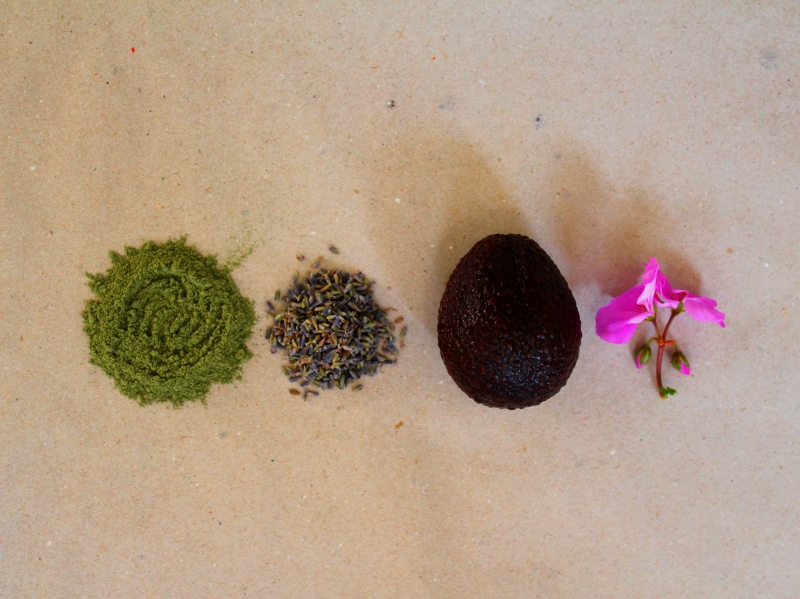
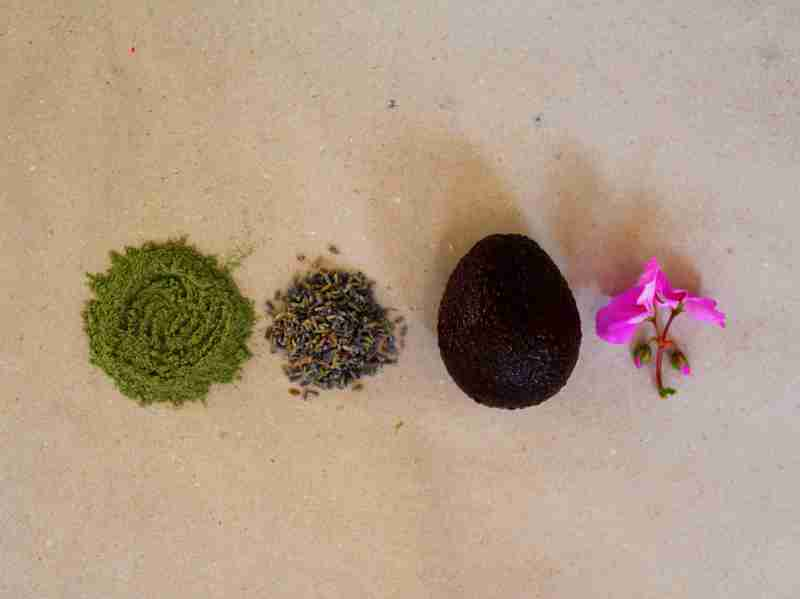
new images and new index

diff --git a/index.html b/index.html
@@ -401,7 +401,7 @@ My categories are:
         </div>
     <span class='feature_holder'> 
     </span></span></span></span></div></article> 
-<article class='mix textile '><div class='image_holder'><span class='image'><img width="800" height="600" src="wp-content/uploads/2015/04/heart_happiness.png" class="attachment-portfolio-landscape wp-post-image" alt="portfolio" /></span><span class='text_holder'><span class='text_outer'><span class='text_inner'><div class="hover_feature_holder_title"><div class="hover_feature_holder_title_inner"><h4 class="portfolio_title">
+<article class='mix textile '><div class='image_holder'><span class='image'><img width="800" height="600" src="wp-content/uploads/2015/04/heart_happiness.jpg" class="attachment-portfolio-landscape wp-post-image" alt="portfolio" /></span><span class='text_holder'><span class='text_outer'><span class='text_inner'><div class="hover_feature_holder_title"><div class="hover_feature_holder_title_inner"><h4 class="portfolio_title">
     <font color="white"> Hi! </font> 
     </h4>
         </div>
@@ -424,7 +424,7 @@ My categories are:
     <span class='feature_holder'> 
     </span></span></span></span></div></article> -->                    
             
-<article class='mix textile '><div class='image_holder'><span class='image'><img width="800" height="600" src="wp-content/uploads/2015/04/fabric.png" class="attachment-portfolio-landscape wp-post-image" alt="portfolio" /></span><span class='text_holder'><span class='text_outer'><span class='text_inner'><div class="hover_feature_holder_title"><div class="hover_feature_holder_title_inner"><h4 class="portfolio_title">
+<article class='mix textile '><div class='image_holder'><span class='image'><img width="800" height="600" src="wp-content/uploads/2015/04/fabric.jpg" class="attachment-portfolio-landscape wp-post-image" alt="portfolio" /></span><span class='text_holder'><span class='text_outer'><span class='text_inner'><div class="hover_feature_holder_title"><div class="hover_feature_holder_title_inner"><h4 class="portfolio_title">
     <font color="white"> Flower dye: Hötorget flower market </font> 
     </h4>
         </div>
@@ -446,35 +446,35 @@ My categories are:
     <span class='feature_holder'> 
     </span></span></span></span></div></article> -->
                                            
-<article class='mix textile '><div class='image_holder'><span class='image'><img width="800" height="600" src="wp-content/uploads/2015/04/concrete_manos.png" class="attachment-portfolio-landscape wp-post-image" alt="portfolio" /></span><span class='text_holder'><span class='text_outer'><span class='text_inner'><div class="hover_feature_holder_title"><div class="hover_feature_holder_title_inner"><h4 class="portfolio_title">
+<article class='mix textile '><div class='image_holder'><span class='image'><img width="800" height="600" src="wp-content/uploads/2015/04/concrete_manos.jpg" class="attachment-portfolio-landscape wp-post-image" alt="portfolio" /></span><span class='text_holder'><span class='text_outer'><span class='text_inner'><div class="hover_feature_holder_title"><div class="hover_feature_holder_title_inner"><h4 class="portfolio_title">
     <font color="white"> at manos shop </font> 
     </h4>
         </div>
         </div>
     <span class='feature_holder'> 
     </span></span></span></span></div></article>   
-<article class='mix textile press '><div class='image_holder'><span class='image'><img width="800" height="600" src="wp-content/uploads/2015/04/elle.png" class="attachment-portfolio-landscape wp-post-image" alt="portfolio" /></span><span class='text_holder'><span class='text_outer'><span class='text_inner'><div class="hover_feature_holder_title"><div class="hover_feature_holder_title_inner"><h4 class="portfolio_title">
+<article class='mix textile press '><div class='image_holder'><span class='image'><img width="800" height="600" src="wp-content/uploads/2015/04/elle.jpg" class="attachment-portfolio-landscape wp-post-image" alt="portfolio" /></span><span class='text_holder'><span class='text_outer'><span class='text_inner'><div class="hover_feature_holder_title"><div class="hover_feature_holder_title_inner"><h4 class="portfolio_title">
     <font color="white"> In the April issue of Elle Decoration </font> 
     </h4>
         </div>
         </div>
     <span class='feature_holder'> 
     </span></span></span></span></div></article>            
-  <article class='mix nature '><div class='image_holder'><span class='image'><img width="800" height="600" src="wp-content/uploads/2015/04/kalmar.png" class="attachment-portfolio-landscape wp-post-image" alt="portfolio" /></span><span class='text_holder'><span class='text_outer'><span class='text_inner'><div class="hover_feature_holder_title"><div class="hover_feature_holder_title_inner"><h4 class="portfolio_title">
+  <article class='mix nature '><div class='image_holder'><span class='image'><img width="800" height="600" src="wp-content/uploads/2015/04/kalmar.jpg" class="attachment-portfolio-landscape wp-post-image" alt="portfolio" /></span><span class='text_holder'><span class='text_outer'><span class='text_inner'><div class="hover_feature_holder_title"><div class="hover_feature_holder_title_inner"><h4 class="portfolio_title">
     <font color="white"> Kalmar </font> 
     </h4>     
         </div>
         </div>
     <span class='feature_holder'> 
     </span></span></span></span></div></article> 
-<article class='mix nature '><div class='image_holder'><span class='image'><img width="800" height="600" src="wp-content/uploads/2015/04/camperbrfst.png" class="attachment-portfolio-landscape wp-post-image" alt="portfolio" /></span><span class='text_holder'><span class='text_outer'><span class='text_inner'><div class="hover_feature_holder_title"><div class="hover_feature_holder_title_inner"><h4 class="portfolio_title">
+<article class='mix nature '><div class='image_holder'><span class='image'><img width="800" height="600" src="wp-content/uploads/2015/04/camperbrfst.jpg" class="attachment-portfolio-landscape wp-post-image" alt="portfolio" /></span><span class='text_holder'><span class='text_outer'><span class='text_inner'><div class="hover_feature_holder_title"><div class="hover_feature_holder_title_inner"><h4 class="portfolio_title">
     <font color="white"> our standard adventure brkfst </font> 
     </h4>
         </div>
         </div>
     <span class='feature_holder'> 
     </span></span></span></span></div></article>               
-<article class='mix nature '><div class='image_holder'><span class='image'><img width="800" height="600" src="wp-content/uploads/2015/04/burningsky.png" class="attachment-portfolio-landscape wp-post-image" alt="portfolio" /></span><span class='text_holder'><span class='text_outer'><span class='text_inner'><div class="hover_feature_holder_title"><div class="hover_feature_holder_title_inner"><h4 class="portfolio_title">
+<article class='mix nature '><div class='image_holder'><span class='image'><img width="800" height="600" src="wp-content/uploads/2015/04/burningsky.jpg" class="attachment-portfolio-landscape wp-post-image" alt="portfolio" /></span><span class='text_holder'><span class='text_outer'><span class='text_inner'><div class="hover_feature_holder_title"><div class="hover_feature_holder_title_inner"><h4 class="portfolio_title">
     <font color="white"> Ystad sunset </font> 
     </h4>
         </div>
@@ -487,7 +487,7 @@ My categories are:
         </div>
     <span class='feature_holder'> 
     </span></span></span></span></div></article>    -->
-<article class='mix nature '><div class='image_holder'><span class='image'><img width="800" height="600" src="wp-content/uploads/2015/03/ice.png" class="attachment-portfolio-landscape wp-post-image" alt="portfolio" /></span><span class='text_holder'><span class='text_outer'><span class='text_inner'><div class="hover_feature_holder_title"><div class="hover_feature_holder_title_inner"><h4 class="portfolio_title">
+<article class='mix nature '><div class='image_holder'><span class='image'><img width="800" height="600" src="wp-content/uploads/2015/03/ice.jpg" class="attachment-portfolio-landscape wp-post-image" alt="portfolio" /></span><span class='text_holder'><span class='text_outer'><span class='text_inner'><div class="hover_feature_holder_title"><div class="hover_feature_holder_title_inner"><h4 class="portfolio_title">
     <font color="white"> Åre mountain walk</font> 
     </h4>
         </div>
@@ -496,7 +496,7 @@ My categories are:
     </span></span></span></span></div></article>
             
 <article class='mix nature '>
-    <div class='image_holder'><span class='image'><img width="800" height="600" src="wp-content/uploads/2015/03/are_mountain.png" class="attachment-portfolio-landscape wp-post-image" alt="AITP_poster_A3_final_fullcolour_image" /></span>
+    <div class='image_holder'><span class='image'><img width="800" height="600" src="wp-content/uploads/2015/03/are_mountain.jpg" class="attachment-portfolio-landscape wp-post-image" alt="AITP_poster_A3_final_fullcolour_image" /></span>
     <span class='text_holder'>
     <span class='text_outer'>
     <span class='text_inner'>
@@ -513,42 +513,42 @@ My categories are:
     </span>
     </div>
             </article>            
-<article class='mix nature '><div class='image_holder'><span class='image'><img width="800" height="600" src="wp-content/uploads/2015/03/are_plant.png" class="attachment-portfolio-landscape wp-post-image" alt="portfolio" /></span><span class='text_holder'><span class='text_outer'><span class='text_inner'><div class="hover_feature_holder_title"><div class="hover_feature_holder_title_inner"><h4 class="portfolio_title">
+<article class='mix nature '><div class='image_holder'><span class='image'><img width="800" height="600" src="wp-content/uploads/2015/03/are_plant.jpg" class="attachment-portfolio-landscape wp-post-image" alt="portfolio" /></span><span class='text_holder'><span class='text_outer'><span class='text_inner'><div class="hover_feature_holder_title"><div class="hover_feature_holder_title_inner"><h4 class="portfolio_title">
     <font color="white"> Åre mountain walk</font> 
     </h4>
         </div>
         </div>
     <span class='feature_holder'> 
     </span></span></span></span></div></article>  
-<article class='mix stones '><div class='image_holder'><span class='image'><img width="800" height="600" src="wp-content/uploads/2015/04/bracelets.png" class="attachment-portfolio-landscape wp-post-image" alt="portfolio" /></span><span class='text_holder'><span class='text_outer'><span class='text_inner'><div class="hover_feature_holder_title"><div class="hover_feature_holder_title_inner"><h4 class="portfolio_title">
+<article class='mix stones '><div class='image_holder'><span class='image'><img width="800" height="600" src="wp-content/uploads/2015/04/bracelets.jpg" class="attachment-portfolio-landscape wp-post-image" alt="portfolio" /></span><span class='text_holder'><span class='text_outer'><span class='text_inner'><div class="hover_feature_holder_title"><div class="hover_feature_holder_title_inner"><h4 class="portfolio_title">
     <font color="white"> Bracelets </font> 
     </h4>
         </div>
         </div>
     <span class='feature_holder'> 
     </span></span></span></span></div></article>  
-<article class='mix nature fun '><div class='image_holder'><span class='image'><img width="800" height="600" src="wp-content/uploads/2015/02/bruno_surf.png" class="attachment-portfolio-landscape wp-post-image" alt="portfolio" /></span><span class='text_holder'><span class='text_outer'><span class='text_inner'><div class="hover_feature_holder_title"><div class="hover_feature_holder_title_inner"><h4 class="portfolio_title">
+<article class='mix nature fun '><div class='image_holder'><span class='image'><img width="800" height="600" src="wp-content/uploads/2015/02/bruno_surf.jpg" class="attachment-portfolio-landscape wp-post-image" alt="portfolio" /></span><span class='text_holder'><span class='text_outer'><span class='text_inner'><div class="hover_feature_holder_title"><div class="hover_feature_holder_title_inner"><h4 class="portfolio_title">
     <font color="white"> Surf in Lisboa</font> 
     </h4>
         </div>
         </div>
     <span class='feature_holder'> 
     </span></span></span></span></div></article>  
-<article class='mix fun '><div class='image_holder'><span class='image'><img width="800" height="600" src="wp-content/uploads/2015/02/vertigo.png" class="attachment-portfolio-landscape wp-post-image" alt="portfolio" /></span><span class='text_holder'><span class='text_outer'><span class='text_inner'><div class="hover_feature_holder_title"><div class="hover_feature_holder_title_inner"><h4 class="portfolio_title">
+<article class='mix fun '><div class='image_holder'><span class='image'><img width="800" height="600" src="wp-content/uploads/2015/02/vertigo.jpg" class="attachment-portfolio-landscape wp-post-image" alt="portfolio" /></span><span class='text_holder'><span class='text_outer'><span class='text_inner'><div class="hover_feature_holder_title"><div class="hover_feature_holder_title_inner"><h4 class="portfolio_title">
     <font color="white"> Climb in Lisboa</font> 
     </h4>
         </div>
         </div>
     <span class='feature_holder'> 
     </span></span></span></span></div></article>    
-<article class='mix nature '><div class='image_holder'><span class='image'><img width="800" height="600" src="wp-content/uploads/2014/12/zarauts_magic.png" class="attachment-portfolio-landscape wp-post-image" alt="portfolio" /></span><span class='text_holder'><span class='text_outer'><span class='text_inner'><div class="hover_feature_holder_title"><div class="hover_feature_holder_title_inner"><h4 class="portfolio_title">
+<article class='mix nature '><div class='image_holder'><span class='image'><img width="800" height="600" src="wp-content/uploads/2014/12/zarauts_magic.jpg" class="attachment-portfolio-landscape wp-post-image" alt="portfolio" /></span><span class='text_holder'><span class='text_outer'><span class='text_inner'><div class="hover_feature_holder_title"><div class="hover_feature_holder_title_inner"><h4 class="portfolio_title">
     <font color="white"> Magic in Zarautz</font> 
     </h4>
         </div>
         </div>
     <span class='feature_holder'> 
     </span></span></span></span></div></article>  
-<article class='mix fun '><div class='image_holder'><span class='image'><img width="800" height="600" src="wp-content/uploads/2015/04/bolos.png" class="attachment-portfolio-landscape wp-post-image" alt="portfolio" /></span><span class='text_holder'><span class='text_outer'><span class='text_inner'><div class="hover_feature_holder_title"><div class="hover_feature_holder_title_inner"><h4 class="portfolio_title">
+<article class='mix fun '><div class='image_holder'><span class='image'><img width="800" height="600" src="wp-content/uploads/2015/04/bolos.jpg" class="attachment-portfolio-landscape wp-post-image" alt="portfolio" /></span><span class='text_holder'><span class='text_outer'><span class='text_inner'><div class="hover_feature_holder_title"><div class="hover_feature_holder_title_inner"><h4 class="portfolio_title">
     <font color="white"> Baluard in Barceloneta, Barcelona </font> 
     </h4>
         </div>
@@ -569,7 +569,7 @@ My categories are:
         </div>
     <span class='feature_holder'> 
     </span></span></span></span></div></article>     -->       
-  <article class='mix nature '><div class='image_holder'><span class='image'><img width="800" height="600" src="wp-content/uploads/2015/04/home.png" class="attachment-portfolio-landscape wp-post-image" alt="portfolio" /></span><span class='text_holder'><span class='text_outer'><span class='text_inner'><div class="hover_feature_holder_title"><div class="hover_feature_holder_title_inner"><h4 class="portfolio_title">
+  <article class='mix nature '><div class='image_holder'><span class='image'><img width="800" height="600" src="wp-content/uploads/2015/04/home.jpg" class="attachment-portfolio-landscape wp-post-image" alt="portfolio" /></span><span class='text_holder'><span class='text_outer'><span class='text_inner'><div class="hover_feature_holder_title"><div class="hover_feature_holder_title_inner"><h4 class="portfolio_title">
     <font color="white"> Close to home</font> 
     </h4>
         </div>
